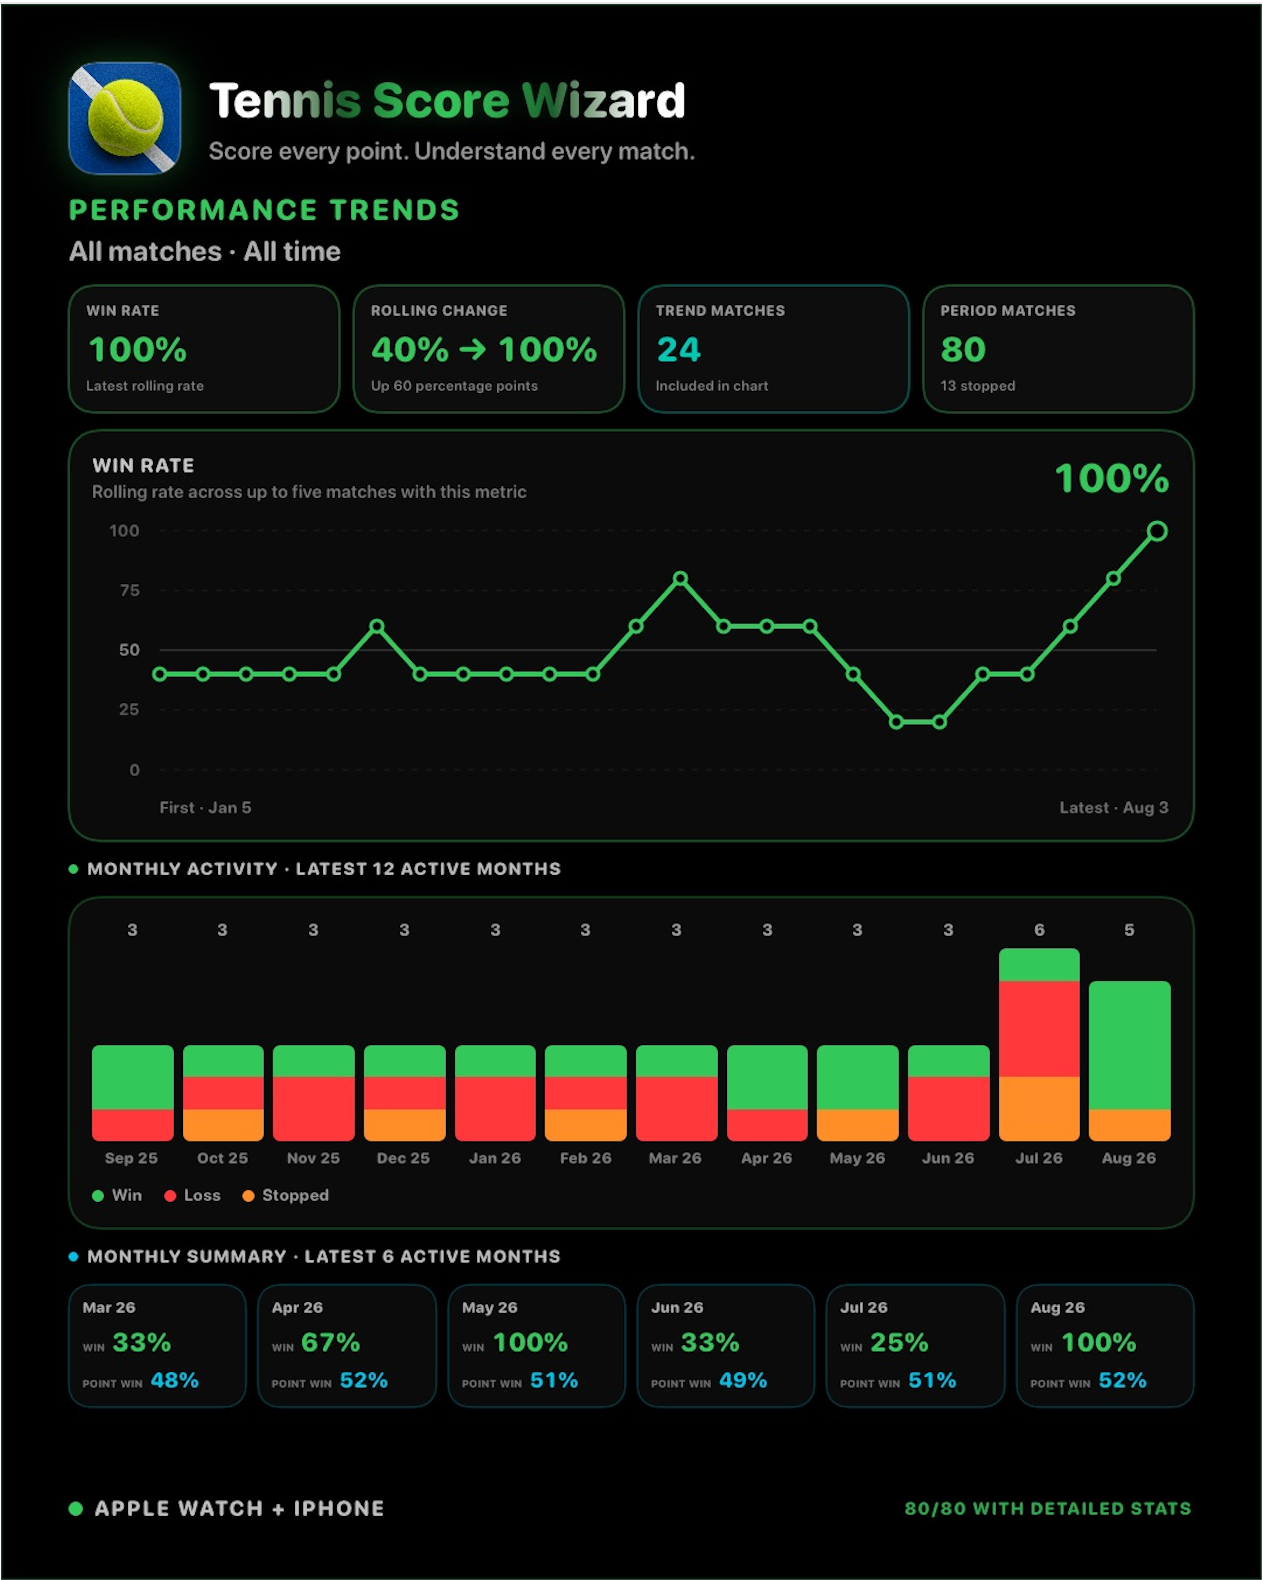
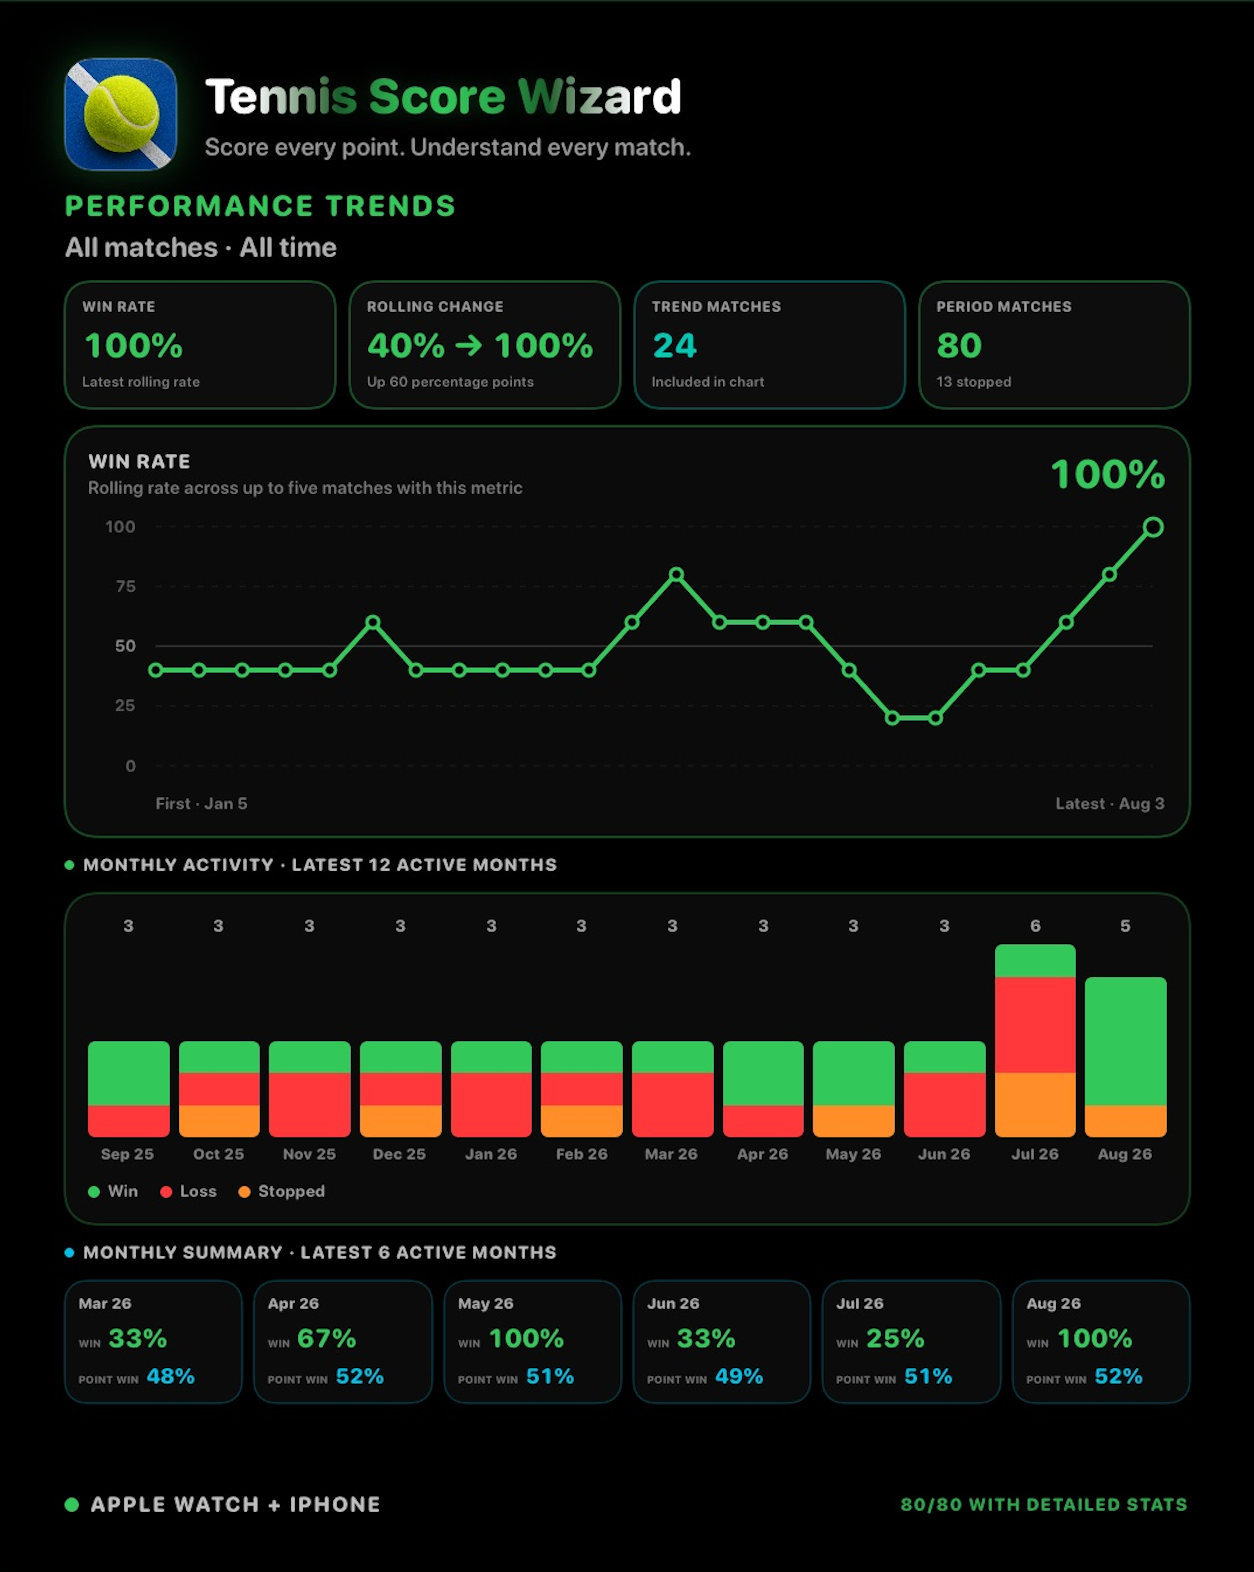
Fix share card image edges

diff --git a/docs/ru/index.html b/docs/ru/index.html
@@ -2526,8 +2526,8 @@ footer {
   <p class="section-subtitle">Отправьте короткую текстовую сводку или создайте красивую карточку по выбранному матчу, периоду, формату игры и открытому разделу статистики.</p>
   <div class="share-gallery">
     <article class="share-card"><img src="../assets/companion_share_match.png" alt="Карточка результата с подробной статистикой матча" width="1080" height="1350" loading="lazy" decoding="async"/><h3>Результат матча</h3><p>Счёт, подача, приём, брейк-пойнты, ход матча и данные тренировки — на одной карточке.</p></article>
-    <article class="share-card"><img src="../assets/companion_share_stats.png" alt="Карточка со сводной статистикой игры" width="1262" height="1576" loading="lazy" decoding="async"/><h3>Обзор игры</h3><p>В карточку попадут выбранный период и фильтр: одиночные, парные или все матчи.</p></article>
-    <article class="share-card"><img src="../assets/companion_share_trends.png" alt="Карточка с графиками игровой динамики" width="1262" height="1580" loading="lazy" decoding="async"/><h3>Динамика игры</h3><p>Поделитесь выбранным графиком вместе с активностью и краткой статистикой по месяцам.</p></article>
+    <article class="share-card"><img src="../assets/companion_share_stats.png" alt="Карточка со сводной статистикой игры" width="1254" height="1568" loading="lazy" decoding="async"/><h3>Обзор игры</h3><p>В карточку попадут выбранный период и фильтр: одиночные, парные или все матчи.</p></article>
+    <article class="share-card"><img src="../assets/companion_share_trends.png" alt="Карточка с графиками игровой динамики" width="1254" height="1572" loading="lazy" decoding="async"/><h3>Динамика игры</h3><p>Поделитесь выбранным графиком вместе с активностью и краткой статистикой по месяцам.</p></article>
   </div>
 </section>
 

diff --git a/docs/ja/index.html b/docs/ja/index.html
@@ -2526,8 +2526,8 @@ footer {
   <p class="section-subtitle">テキストの要約に加え、選択中の試合、期間、試合形式、スタッツ画面に合わせた見やすい画像カードを作成できます。</p>
   <div class="share-gallery">
     <article class="share-card"><img src="../assets/companion_share_match.png" alt="試合結果と詳細スタッツをまとめた共有カード" width="1080" height="1350" loading="lazy" decoding="async"/><h3>試合結果</h3><p>スコアと、サービス、リターン、ブレークポイント、試合展開、ワークアウトのデータを1枚にまとめます。</p></article>
-    <article class="share-card"><img src="../assets/companion_share_stats.png" alt="パフォーマンススタッツの共有カード" width="1262" height="1576" loading="lazy" decoding="async"/><h3>パフォーマンス概要</h3><p>選択した期間とシングルス／ダブルス／すべての条件をそのまま書き出せます。</p></article>
-    <article class="share-card"><img src="../assets/companion_share_trends.png" alt="グラフ付きパフォーマンストレンド共有カード" width="1262" height="1580" loading="lazy" decoding="async"/><h3>パフォーマンストレンド</h3><p>選択したトレンドを、月別の試合数と直近の月間サマリーと一緒に共有できます。</p></article>
+    <article class="share-card"><img src="../assets/companion_share_stats.png" alt="パフォーマンススタッツの共有カード" width="1254" height="1568" loading="lazy" decoding="async"/><h3>パフォーマンス概要</h3><p>選択した期間とシングルス／ダブルス／すべての条件をそのまま書き出せます。</p></article>
+    <article class="share-card"><img src="../assets/companion_share_trends.png" alt="グラフ付きパフォーマンストレンド共有カード" width="1254" height="1572" loading="lazy" decoding="async"/><h3>パフォーマンストレンド</h3><p>選択したトレンドを、月別の試合数と直近の月間サマリーと一緒に共有できます。</p></article>
   </div>
 </section>
 

diff --git a/docs/fr/index.html b/docs/fr/index.html
@@ -2526,8 +2526,8 @@ footer {
   <p class="section-subtitle">Envoyez un résumé texte ou créez une carte visuelle soignée à partir du match, de la période, du type de match et de la vue statistique sélectionnés.</p>
   <div class="share-gallery">
     <article class="share-card"><img src="../assets/companion_share_match.png" alt="Carte partageable avec résultat et statistiques du match" width="1080" height="1350" loading="lazy" decoding="async"/><h3>Résultat du match</h3><p>Partagez le score ainsi que les données disponibles sur le service, le retour, les balles de break, le déroulement et l’entraînement.</p></article>
-    <article class="share-card"><img src="../assets/companion_share_stats.png" alt="Carte partageable avec statistiques de performance" width="1262" height="1576" loading="lazy" decoding="async"/><h3>Vue d’ensemble des performances</h3><p>Exportez exactement la période et le filtre simple, double ou tous les matchs que vous avez choisis.</p></article>
-    <article class="share-card"><img src="../assets/companion_share_trends.png" alt="Carte partageable avec tendances et graphiques" width="1262" height="1580" loading="lazy" decoding="async"/><h3>Tendances de performance</h3><p>Partagez la tendance sélectionnée avec l’activité et le bilan mensuels.</p></article>
+    <article class="share-card"><img src="../assets/companion_share_stats.png" alt="Carte partageable avec statistiques de performance" width="1254" height="1568" loading="lazy" decoding="async"/><h3>Vue d’ensemble des performances</h3><p>Exportez exactement la période et le filtre simple, double ou tous les matchs que vous avez choisis.</p></article>
+    <article class="share-card"><img src="../assets/companion_share_trends.png" alt="Carte partageable avec tendances et graphiques" width="1254" height="1572" loading="lazy" decoding="async"/><h3>Tendances de performance</h3><p>Partagez la tendance sélectionnée avec l’activité et le bilan mensuels.</p></article>
   </div>
 </section>
 

diff --git a/docs/es/index.html b/docs/es/index.html
@@ -2526,8 +2526,8 @@ footer {
   <p class="section-subtitle">Comparte un resumen en texto o crea una tarjeta visual cuidada a partir del partido, periodo, tipo de partido y vista de estadísticas que tengas seleccionados.</p>
   <div class="share-gallery">
     <article class="share-card"><img src="../assets/companion_share_match.png" alt="Tarjeta compartible con resultado y estadísticas del partido" width="1080" height="1350" loading="lazy" decoding="async"/><h3>Resultado del partido</h3><p>Comparte el marcador junto con los datos disponibles de saque, resto, bolas de break, desarrollo y entrenamiento.</p></article>
-    <article class="share-card"><img src="../assets/companion_share_stats.png" alt="Tarjeta compartible con estadísticas de rendimiento" width="1262" height="1576" loading="lazy" decoding="async"/><h3>Resumen de rendimiento</h3><p>Exporta exactamente el periodo y el filtro de individuales, dobles o todos que hayas elegido.</p></article>
-    <article class="share-card"><img src="../assets/companion_share_trends.png" alt="Tarjeta compartible con tendencias y gráficos" width="1262" height="1580" loading="lazy" decoding="async"/><h3>Tendencias de rendimiento</h3><p>Comparte la tendencia seleccionada con la actividad y el resumen mensual.</p></article>
+    <article class="share-card"><img src="../assets/companion_share_stats.png" alt="Tarjeta compartible con estadísticas de rendimiento" width="1254" height="1568" loading="lazy" decoding="async"/><h3>Resumen de rendimiento</h3><p>Exporta exactamente el periodo y el filtro de individuales, dobles o todos que hayas elegido.</p></article>
+    <article class="share-card"><img src="../assets/companion_share_trends.png" alt="Tarjeta compartible con tendencias y gráficos" width="1254" height="1572" loading="lazy" decoding="async"/><h3>Tendencias de rendimiento</h3><p>Comparte la tendencia seleccionada con la actividad y el resumen mensual.</p></article>
   </div>
 </section>
 

diff --git a/docs/tr/index.html b/docs/tr/index.html
@@ -2526,8 +2526,8 @@ footer {
   <p class="section-subtitle">Kısa bir metin özeti gönderin veya seçili maç, dönem, maç türü ve istatistik görünümüne göre hazırlanmış şık bir görsel kart oluşturun.</p>
   <div class="share-gallery">
     <article class="share-card"><img src="../assets/companion_share_match.png" alt="Maç sonucu ve ayrıntılı istatistikleri içeren paylaşım kartı" width="1080" height="1350" loading="lazy" decoding="async"/><h3>Maç sonucu</h3><p>Skoru; servis, karşılama, break puanları, maç akışı ve antrenman verileriyle birlikte paylaşın.</p></article>
-    <article class="share-card"><img src="../assets/companion_share_stats.png" alt="Performans istatistiklerini içeren paylaşım kartı" width="1262" height="1576" loading="lazy" decoding="async"/><h3>Performans özeti</h3><p>Seçtiğiniz dönemi ve tüm maçlar, tekler veya çiftler filtresini aynen dışa aktarın.</p></article>
-    <article class="share-card"><img src="../assets/companion_share_trends.png" alt="Grafikli performans trendleri paylaşım kartı" width="1262" height="1580" loading="lazy" decoding="async"/><h3>Performans trendleri</h3><p>Seçili trendi aylık etkinlik ve son aylara ait özetle birlikte paylaşın.</p></article>
+    <article class="share-card"><img src="../assets/companion_share_stats.png" alt="Performans istatistiklerini içeren paylaşım kartı" width="1254" height="1568" loading="lazy" decoding="async"/><h3>Performans özeti</h3><p>Seçtiğiniz dönemi ve tüm maçlar, tekler veya çiftler filtresini aynen dışa aktarın.</p></article>
+    <article class="share-card"><img src="../assets/companion_share_trends.png" alt="Grafikli performans trendleri paylaşım kartı" width="1254" height="1572" loading="lazy" decoding="async"/><h3>Performans trendleri</h3><p>Seçili trendi aylık etkinlik ve son aylara ait özetle birlikte paylaşın.</p></article>
   </div>
 </section>
 

diff --git a/docs/de/index.html b/docs/de/index.html
@@ -2526,8 +2526,8 @@ footer {
   <p class="section-subtitle">Teile eine kompakte Textzusammenfassung oder erstelle eine hochwertige Bildkarte passend zum ausgewählten Match, Zeitraum, Matchtyp und Statistikbereich.</p>
   <div class="share-gallery">
     <article class="share-card"><img src="../assets/companion_share_match.png" alt="Teilbare Ergebniskarte mit Matchstatistiken" width="1080" height="1350" loading="lazy" decoding="async"/><h3>Matchergebnis</h3><p>Score, Aufschlag, Return, Breakbälle, Matchverlauf und Trainingsdaten in einer Karte.</p></article>
-    <article class="share-card"><img src="../assets/companion_share_stats.png" alt="Teilbare Karte mit Leistungsstatistiken" width="1262" height="1576" loading="lazy" decoding="async"/><h3>Leistungsübersicht</h3><p>Exportiere genau den Zeitraum und den Einzel-, Doppel- oder Gesamtfilter, den du ausgewählt hast.</p></article>
-    <article class="share-card"><img src="../assets/companion_share_trends.png" alt="Teilbare Trendkarte mit Diagrammen" width="1262" height="1580" loading="lazy" decoding="async"/><h3>Leistungstrends</h3><p>Teile den gewählten Trend zusammen mit Monatsaktivität und Monatsübersicht.</p></article>
+    <article class="share-card"><img src="../assets/companion_share_stats.png" alt="Teilbare Karte mit Leistungsstatistiken" width="1254" height="1568" loading="lazy" decoding="async"/><h3>Leistungsübersicht</h3><p>Exportiere genau den Zeitraum und den Einzel-, Doppel- oder Gesamtfilter, den du ausgewählt hast.</p></article>
+    <article class="share-card"><img src="../assets/companion_share_trends.png" alt="Teilbare Trendkarte mit Diagrammen" width="1254" height="1572" loading="lazy" decoding="async"/><h3>Leistungstrends</h3><p>Teile den gewählten Trend zusammen mit Monatsaktivität und Monatsübersicht.</p></article>
   </div>
 </section>
 

diff --git a/docs/zh-Hans/index.html b/docs/zh-Hans/index.html
@@ -2526,8 +2526,8 @@ footer {
   <p class="section-subtitle">既可以发送简洁的文字摘要，也可以根据当前选择的比赛、时间范围、比赛类型和统计页面生成精美图片卡片。</p>
   <div class="share-gallery">
     <article class="share-card"><img src="../assets/companion_share_match.png" alt="包含赛果和详细比赛统计的分享卡片" width="1080" height="1350" loading="lazy" decoding="async"/><h3>比赛结果</h3><p>一张卡片呈现比分，以及发球、接发、破发点、比赛走势和体能训练数据。</p></article>
-    <article class="share-card"><img src="../assets/companion_share_stats.png" alt="表现统计分享卡片" width="1262" height="1576" loading="lazy" decoding="async"/><h3>表现总览</h3><p>按当前选择的时间范围，以及全部、单打或双打筛选条件导出。</p></article>
-    <article class="share-card"><img src="../assets/companion_share_trends.png" alt="包含图表的表现趋势分享卡片" width="1262" height="1580" loading="lazy" decoding="async"/><h3>表现趋势</h3><p>将所选趋势连同月度比赛活跃度和近期月度摘要一起分享。</p></article>
+    <article class="share-card"><img src="../assets/companion_share_stats.png" alt="表现统计分享卡片" width="1254" height="1568" loading="lazy" decoding="async"/><h3>表现总览</h3><p>按当前选择的时间范围，以及全部、单打或双打筛选条件导出。</p></article>
+    <article class="share-card"><img src="../assets/companion_share_trends.png" alt="包含图表的表现趋势分享卡片" width="1254" height="1572" loading="lazy" decoding="async"/><h3>表现趋势</h3><p>将所选趋势连同月度比赛活跃度和近期月度摘要一起分享。</p></article>
   </div>
 </section>
 

diff --git a/docs/index.html b/docs/index.html
@@ -2658,12 +2658,12 @@ footer {
       <p>Share the score together with the available match, serve, return, break-point, flow, and workout data.</p>
     </article>
     <article class="share-card">
-      <img src="assets/companion_share_stats.png" alt="Shareable tennis performance statistics card" width="1262" height="1576" loading="lazy" decoding="async">
+      <img src="assets/companion_share_stats.png" alt="Shareable tennis performance statistics card" width="1254" height="1568" loading="lazy" decoding="async">
       <h3>Performance overview</h3>
       <p>Export the same period and Singles, Doubles, or All filter currently selected in Stats.</p>
     </article>
     <article class="share-card">
-      <img src="assets/companion_share_trends.png" alt="Shareable tennis performance trends card with charts" width="1262" height="1580" loading="lazy" decoding="async">
+      <img src="assets/companion_share_trends.png" alt="Shareable tennis performance trends card with charts" width="1254" height="1572" loading="lazy" decoding="async">
       <h3>Performance trends</h3>
       <p>Share the selected trend together with monthly activity and the latest monthly summary.</p>
     </article>
